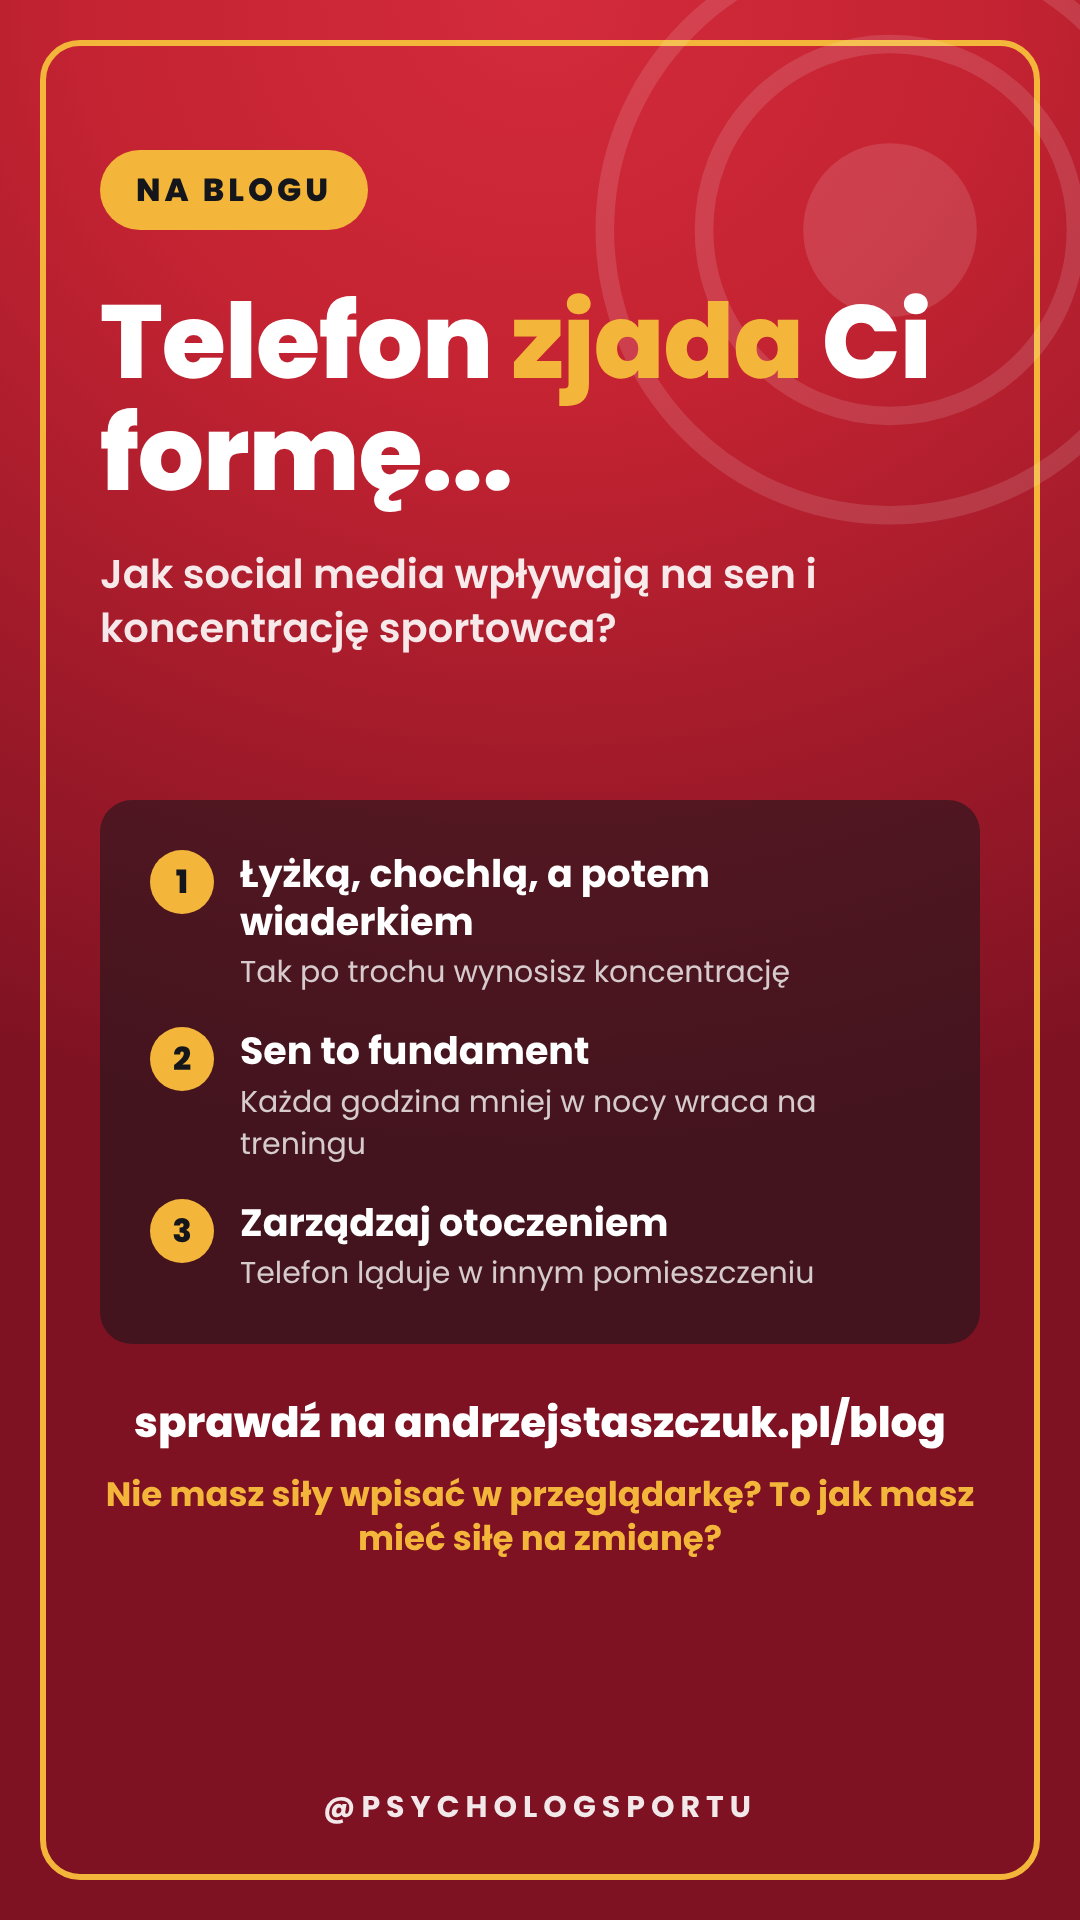
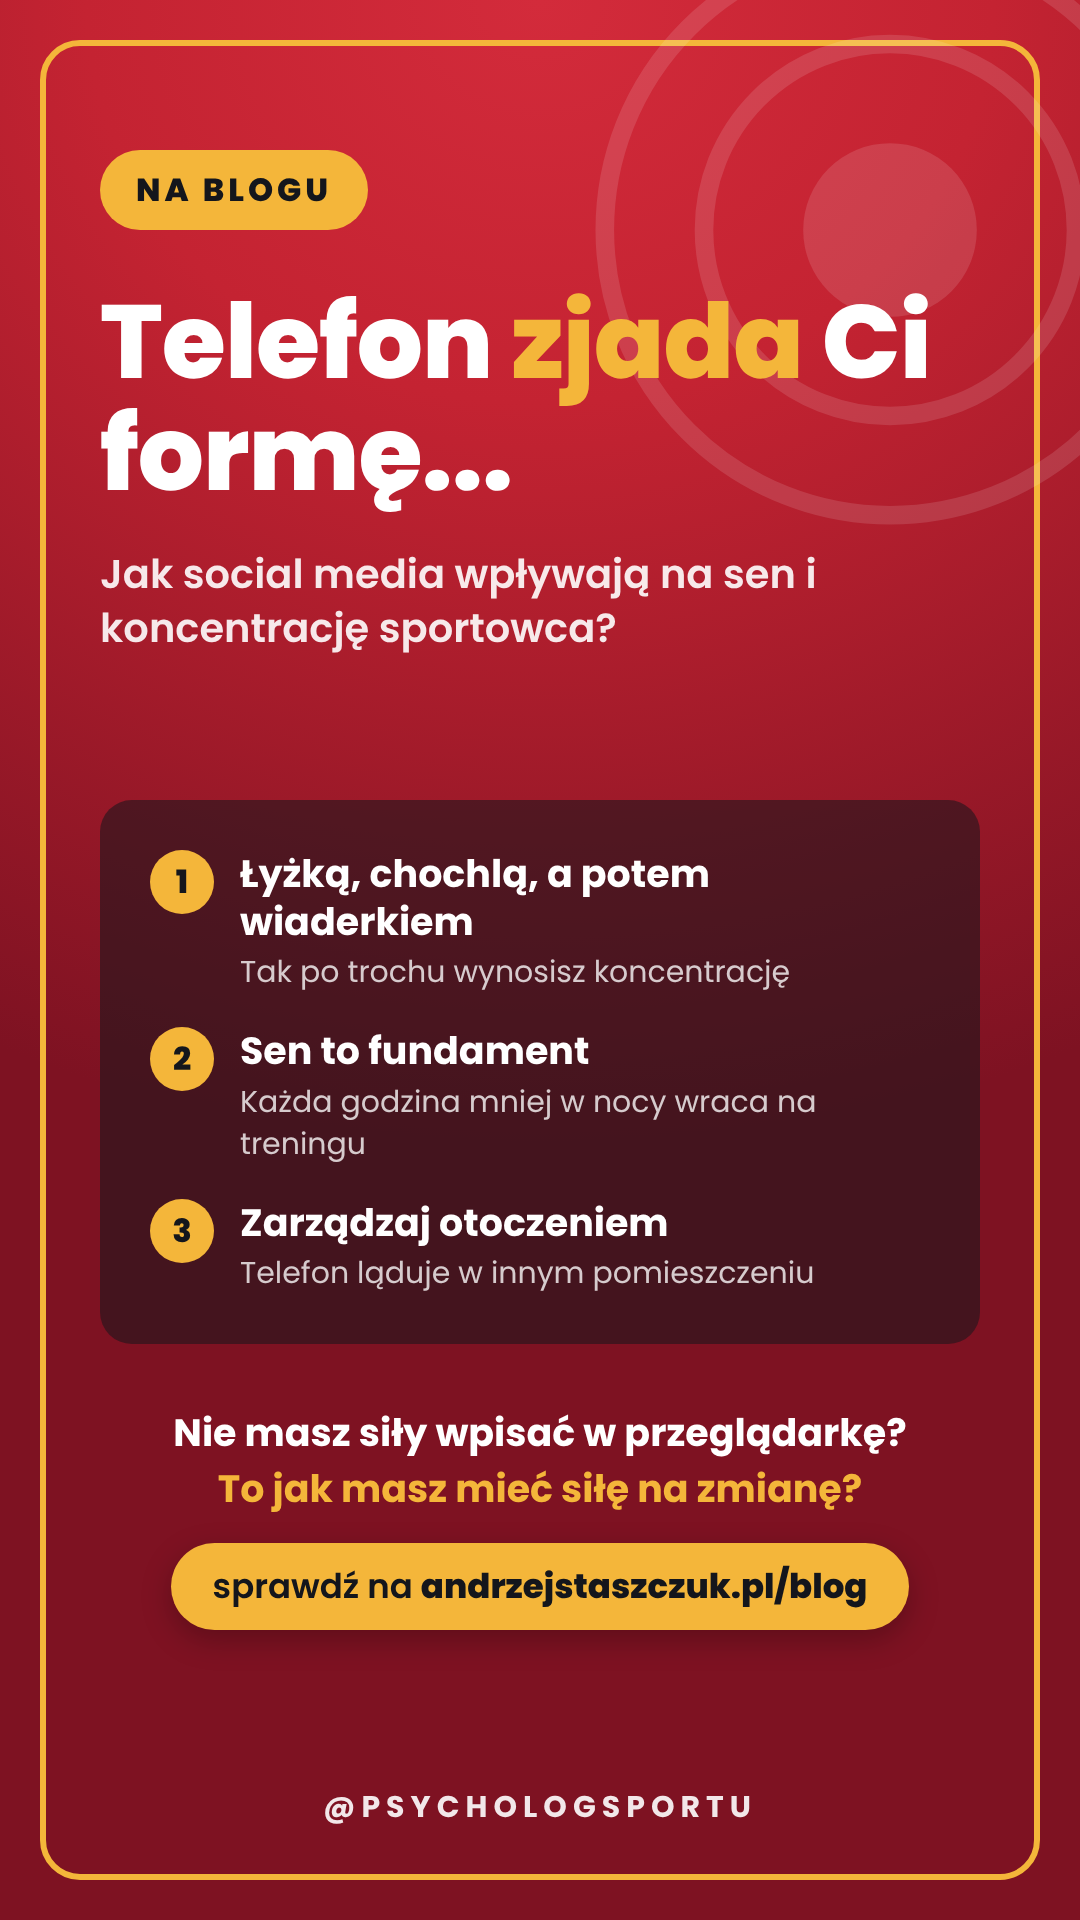
Relacje z bloga: ładniejszy dół z pytaniem i adresem
Claude-Session: https://claude.ai/code/session_01A5PTvWpyS7iEo6fG2kmJPS

Changed region(s): [[0.0917, 0.7188, 0.8861, 0.875]]

diff --git a/tools/relacja-wpis.js b/tools/relacja-wpis.js
@@ -23,7 +23,7 @@ body{width:1080px;height:1920px;overflow:hidden;font-family:Pop;color:#fff;backg
   <div style="margin-top:36px;font:600 40px/1.35 Pop;color:rgba(255,255,255,.9)">${esc(o.sub)}</div>
 </div>
 <div style="position:absolute;left:100px;right:100px;top:${o.itemsTop || 930}px;background:rgba(20,22,28,.55);border-radius:32px;padding:50px 50px">${items}</div>
-${o.cta?`<div style="position:absolute;left:100px;right:100px;bottom:${o.ctaBottom||250}px;text-align:center;font:800 42px Pop">${esc(o.cta)}${o.cta2?`<div style="margin-top:18px;font:700 34px/1.3 Pop;color:${Y}">${esc(o.cta2)}</div>`:''}</div>`:''}
+${(o.cta||o.cta2)?`<div style="position:absolute;left:90px;right:90px;bottom:${+o.ctaBottom||250}px;text-align:center">${o.cta2?(()=>{const p=String(o.cta2).split(/(?<=\?)\s+/);return `<div style="font:700 38px/1.3 Pop;color:#fff">${esc(p[0])}</div>${p.length>1?`<div style="font:700 38px/1.3 Pop;color:${Y};margin-top:6px">${esc(p.slice(1).join(' '))}</div>`:''}`})():''}${o.cta?(()=>{const m=String(o.cta).match(/^(.*?\s)?(\S+\.\S+)$/);return `<div style="display:inline-block;margin-top:${o.cta2?30:0}px;background:${Y};color:#14161C;border-radius:999px;padding:18px 42px;font:600 34px Pop;box-shadow:0 10px 30px rgba(0,0,0,.25)">${m?`${esc(m[1]||'')}<b style="font-weight:800">${esc(m[2])}</b>`:esc(o.cta)}</div>`})():''}</div>`:''}
 <div style="position:absolute;left:0;right:0;bottom:90px;text-align:center;font:700 30px Pop;letter-spacing:6px;opacity:.9">@PSYCHOLOGSPORTU</div>
 </body></html>`;
 render(html, process.argv[3], 1080, 1920).then(() => console.log('ok'));

diff --git a/relacje-marki/UWAGI-ANDRZEJA.md b/relacje-marki/UWAGI-ANDRZEJA.md
@@ -7,3 +7,4 @@
 - 26.11.2026 (telefon): na dole napis z adresem: sprawdź na andrzejstaszczuk.pl/blog (nad miejscem na naklejkę); tytuł może kończyć się wielokropkiem.
 - 26.11.2026: te zasady obowiązują w każdej nowej relacji z bloga. Gdy tytuł ma 4 linijki, przesuń listę niżej (itemsTop 880, ctaBottom 420), żeby nic na siebie nie nachodziło.
 - 26.11.2026: pod adresem bloga zawsze drugi wiersz (cta2, żółty): Nie masz siły wpisać w przeglądarkę? To jak masz mieć siłę na zmianę? Napis na dole niżej (ctaBottom ok. 380, przy 4-linijkowym tytule 330), żeby nie nachodził na listę.
+- 26.11.2026: dół relacji estetyczniej: najpierw pytanie (pierwsze zdanie białe, drugie żółte), pod nim żółta pigułka z adresem: sprawdź na andrzejstaszczuk.pl/blog (adres pogrubiony). ctaBottom ok. 340 (przy dłuższej liście 290–300); między pigułką a podpisem @PSYCHOLOGSPORTU miejsce na naklejkę.
